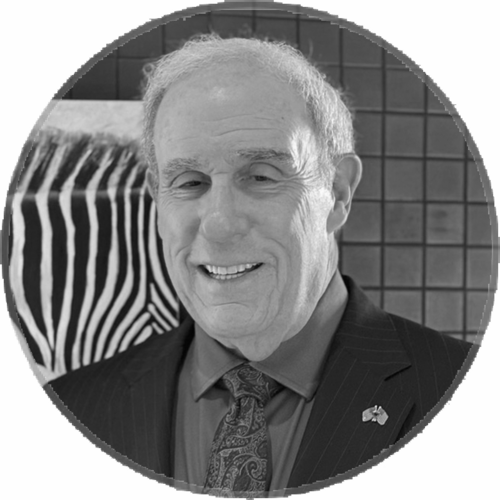
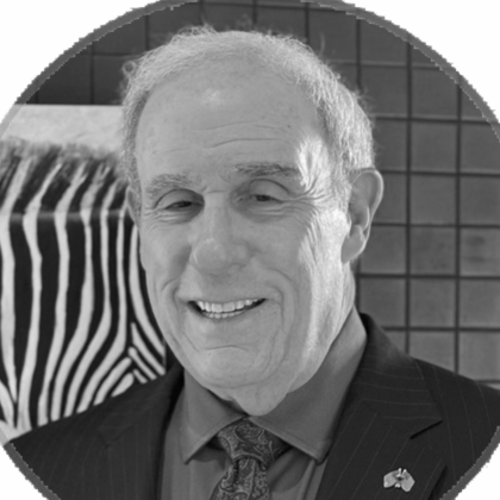
Add full team bios page, refresh team/partner photos, and copy tweaks
Adds team-bios.html (linked from team.html) with expanded bios,
updates several team/partner photos, and adjusts copy and layout
across index, technology, and contact pages.

diff --git a/team-bios.html b/team-bios.html
@@ -1,0 +1,197 @@
+<!DOCTYPE html>
+<html lang="en">
+<head>
+  <meta charset="UTF-8" />
+  <meta name="viewport" content="width=device-width, initial-scale=1.0" />
+  <title>Full Team Bios — RapidBio Systems</title>
+  <meta name="description" content="Full biographies for RapidBio Systems' leadership and inventor team." />
+  <meta name="robots" content="noindex" />
+  <link rel="icon" type="image/png" sizes="64x64" href="assets/favicon-64.png" />
+  <link rel="apple-touch-icon" href="assets/apple-touch-icon.png" />
+  <link rel="stylesheet" href="css/styles.css" />
+</head>
+<body>
+
+  <!-- ===== HEADER ===== -->
+  <header class="site-header">
+    <div class="container nav">
+      <a class="nav__brand" href="index.html" aria-label="RapidBio Systems home">
+        <img src="assets/logo-nav.png" alt="RapidBio Systems" />
+      </a>
+      <nav aria-label="Primary">
+        <ul class="nav__links" id="nav-links">
+          <li><a href="index.html">Home</a></li>
+          <li><a href="technology.html">Technology</a></li>
+          <li><a href="team.html" class="is-active">Team</a></li>
+          <li><a href="contact.html">Contact</a></li>
+          <li><a class="btn btn--primary" href="contact.html">Request the Investor Deck</a></li>
+        </ul>
+      </nav>
+      <div class="nav__cta">
+        <a class="btn btn--primary" href="contact.html">Request the Investor Deck</a>
+        <button class="nav__toggle" aria-label="Open menu" aria-expanded="false" aria-controls="nav-links"><span></span></button>
+      </div>
+    </div>
+  </header>
+
+  <main>
+    <!-- ===== PAGE HERO ===== -->
+    <section class="section section--mint">
+      <div class="container">
+        <div class="section-head narrow">
+          <span class="eyebrow"><a href="team.html">&larr; Team</a></span>
+          <h2 class="mt-0">Full team bios</h2>
+          <p class="lead">Extended backgrounds for RapidBio's leadership, board and inventor team.</p>
+        </div>
+      </div>
+    </section>
+
+    <!-- ===== BIOS ===== -->
+    <section class="section">
+      <div class="container narrow">
+
+        <article class="bio-entry">
+          <div class="bio-entry__head">
+            <div class="member__photo"><img src="assets/team-erickson.png" alt="Portrait of John Erickson" width="500" height="500" /></div>
+            <div>
+              <h2 class="mt-0">John Erickson</h2>
+              <div class="role">President &amp; CEO</div>
+            </div>
+          </div>
+          <div class="bio-entry__body">
+            <p>John is an experienced global healthcare and life sciences executive with CEO and board-level expertise across Fortune 50 corporations, private equity ventures, and start-ups. His broad experiential portfolio, business acumen and global perspective includes strategy development and execution, capital funding, and global commercial deployment utilizing both direct and distribution models. He has led organizational design and cultural change management, and sales force deployment and re-engineering.</p>
+            <p>Additionally, John has expansive Point of Care (POC)/Need testing experience, successful joint venture management, corporate partnerships, product licensing agreements, as well as intellectual property strategy, emerging markets, data management and digital health expertise. John holds degrees in Biology, Chemistry, and a Master of Science in Business Management as well as additional graduate level courses in Biochemistry, Toxicology &amp; Endocrinology. In addition, John is trained in Six Sigma &amp; Lean Thinking, ISO 9001, ISO 13485 and cGMP Compliance.</p>
+            <p>John has also served on several Boards of Directors and as an Advisor to several organizations, including:</p>
+            <ul>
+              <li>Board Member — RNA Disease Diagnostics, Inc., ITC Nexus Dx Holding Company, RapidBio Systems, Inc.</li>
+              <li>Advisor — U of Pennsylvania Wharton Business School / Tel Aviv University Partnership</li>
+              <li>Advisor — Warburg Pincus, California Life Sciences FAST Program</li>
+              <li>Advisor &amp; Consultant — Gerson, Lehrman Group, Braile BioMedica, ISENS, GlucoMe</li>
+              <li>Society Board Member — International Diabetes Federation, The Diabetes Society of Silicon Valley</li>
+            </ul>
+          </div>
+        </article>
+
+        <article class="bio-entry">
+          <div class="bio-entry__head">
+            <div class="member__photo"><img src="assets/team-morrison.png" alt="Portrait of Bob Morrison" width="500" height="500" /></div>
+            <div>
+              <h2 class="mt-0">Bob Morrison</h2>
+              <div class="role">Board &amp; Investor</div>
+            </div>
+          </div>
+          <div class="bio-entry__body">
+            <p>Bob has been involved in all phases of technology business development. He has a graduate degree in Electrical Engineering from Colorado State University and has spent the majority of his career in administrative, marketing, and entrepreneurial roles in the electronics and software industries. He was a co-founder of Sunquest Information Systems, which became the world's largest developer of hospital laboratory information automation products with annual sales in excess of $350 million.</p>
+            <p>Bob was also the Executive Director of the Desert Angels in Tucson, AZ, where he served for 10 years helping to grow its investment portfolio to over $30 million in more than 65 companies. He has taught for many years in the University of Arizona's Eller College of Management's McGuire Center for Entrepreneurship, and has also taught at the University of Maryland's Perdue School of Business on its Salisbury campus. Among Bob's many professional activities are:</p>
+            <ul>
+              <li>Chairman — The Citizen Advisory Board of the University of Arizona's Bio5 Institute</li>
+              <li>Co-Director — University of Arizona's Advanced Technology Transfer Program for the commercialization of life science projects from Mexican government research laboratories</li>
+              <li>Advisor — Life science companies seeking ISO 9000 certification</li>
+              <li>Board Member — IdeaFunding, an organization assisting early-stage entrepreneurs in their search for funding prior to angel investment; RapidBio Systems, Inc.</li>
+            </ul>
+          </div>
+        </article>
+
+        <article class="bio-entry">
+          <div class="bio-entry__head">
+            <div class="member__photo"><img src="assets/team-marmis.png" alt="Portrait of Cary Marmis" width="500" height="500" /></div>
+            <div>
+              <h2 class="mt-0">Cary Marmis</h2>
+              <div class="role">Board &amp; Investor</div>
+            </div>
+          </div>
+          <div class="bio-entry__body">
+            <p>Cary Marmis is a prominent real estate developer, former military pilot, and philanthropist based in Tucson, Arizona. Cary holds a degree in Biology from the University of Illinois and a graduate degree in Physiology from the University of Michigan.</p>
+            <p>Cary's business and philanthropy experience has been broad and successful, alongside an exceptional career in aviation:</p>
+            <ul>
+              <li><b>Real Estate &amp; Development</b> — As the founder and former CEO of Empire West Companies, he spent decades developing commercial and residential properties across the Western U.S., including thousands of apartment units, shopping centers, and custom homes. In Tucson, he is particularly known for building the prominent Campbell Cliffs estate in the Catalina Foothills.</li>
+              <li><b>Military &amp; Volunteer Flying</b> — A former U.S. Air Force fighter pilot, he has continued flying in civilian life, volunteering his time and aircraft for non-profit organizations like Angel Flight West and Veterans Airlift Command to fly patients and veterans for medical treatment.</li>
+              <li><b>Community Leadership &amp; Philanthropy</b> — He has served on numerous local and regional boards, including the Pima Air &amp; Space Museum, DM-50 (supporting Davis-Monthan Air Force Base), the Arizona Theatre Company, and local community and charitable foundations.</li>
+            </ul>
+          </div>
+        </article>
+
+        <article class="bio-entry">
+          <div class="bio-entry__head">
+            <div class="member__photo"><img src="assets/team-yoon.png" alt="Portrait of Professor Yoon" width="500" height="500" /></div>
+            <div>
+              <h2 class="mt-0">Jeong-Yeol Yoon, PhD</h2>
+              <div class="role">Inventor</div>
+            </div>
+          </div>
+          <div class="bio-entry__body">
+            <ul>
+              <li>Professor of Biomedical Engineering</li>
+              <li>Professor of Agricultural &amp; Biosystems Engineering</li>
+              <li>Professor, BIO5 Institute</li>
+              <li>Professor of Animal and Comparative Biomedical Sciences</li>
+              <li>Professor of Chemistry and Biochemistry</li>
+              <li>Member of the Graduate Faculty</li>
+            </ul>
+            <p>Professor Yoon developed the technology for the RapidBio Systems bacterial pathogen detection system.</p>
+            <p>Jeong-Yeol Yoon received his BS, MS and PhD degrees in chemical engineering from Yonsei University, Seoul (South Korea) in 1992, 1994 and 1999, respectively, under the guidance of Woo-Sik Kim, in collaboration with Jung-Hyun Kim, where he worked primarily on polymer colloids. He received his second PhD degree in biomedical engineering from the University of California, Los Angeles in 2004, working on lab-on-a-chip and biomaterials, under the guidance of Robin L. Garrell.</p>
+            <p>He joined the Department of Agricultural &amp; Biosystems Engineering faculty in August 2004 and holds a joint appointment in the School of Animal &amp; Comparative Biomedical Sciences, Department of Biomedical Engineering and BIO5 Institute at The University of Arizona, where he currently directs the Biosensors Lab. Dr. Yoon is a member of IBE, ASABE and SPIE, and was Councilor-at-Large for IBE for the 2010 and 2011 calendar years. He was elected president-elect of IBE in 2014, served as president in 2015, and as immediate past president in 2016. He currently serves as editor-in-chief for the Journal of Biological Engineering (IBE) and as an associate editor and editorial board member for ASABE journals.</p>
+          </div>
+        </article>
+
+        <article class="bio-entry">
+          <div class="bio-entry__head">
+            <div class="member__photo"><img src="assets/team-perchorowicz.png" alt="Portrait of John Perchorowicz" width="500" height="500" /></div>
+            <div>
+              <h2 class="mt-0">John T. Perchorowicz, PhD, RTTP</h2>
+              <div class="role">Technical Consultant &amp; Investor</div>
+            </div>
+          </div>
+          <div class="bio-entry__body">
+            <p>John led the RapidBio Systems Minimum Viable Product prototype instrument development team.</p>
+            <p>As president of Triage Masters LLC, John consulted for major universities on their technology transfer functions, including developing business models that resulted in successful long-term implementation. As the former Vice President of Business Development for Research Corporation Technologies (RCT), he was responsible for identifying early-stage technology emanating from US and Canadian universities for potential development into products in seed-stage companies, or licensing of intellectual property to third-party developers.</p>
+            <p>John was the lead scientific member of the Product Opportunity Committee at Calgene, Inc., serving as the primary liaison between science and business and responsible for scientific review of projects emanating from either the R&amp;D or marketing groups. John was also responsible for communication, goal setting and directing of a scientific collaborative relationship with a corporate contractor in the areas of photosynthetic efficiency, oxidative stress and plant transformation, including supervision of their scientists at Calgene.</p>
+          </div>
+        </article>
+
+        <div class="hero__actions" style="justify-content:center; margin-top:8px">
+          <a class="btn btn--ghost" href="team.html">&larr; Back to Team</a>
+        </div>
+
+      </div>
+    </section>
+  </main>
+
+  <!-- ===== FOOTER ===== -->
+  <footer class="site-footer">
+    <div class="container">
+      <div class="footer__top">
+        <div>
+          <div class="footer__brand">
+            <img src="assets/logo-mark.png" alt="" />
+            <div class="footer__wordmark">RapidBio Systems, Inc.<span>Fast Pathogen Detection Made Easy™</span></div>
+          </div>
+          <p class="footer__tag">Transforming food safety testing one 10-minute test at a time.</p>
+        </div>
+        <div class="footer__col">
+          <h4>Explore</h4>
+          <ul>
+            <li><a href="index.html">Home</a></li>
+            <li><a href="technology.html">Technology</a></li>
+            <li><a href="team.html">Team</a></li>
+            <li><a href="contact.html">Contact</a></li>
+          </ul>
+        </div>
+        <div class="footer__col">
+          <h4>Contact</h4>
+          <ul>
+            <li><a href="mailto:john.erickson@rapidbiosystems.com">john.erickson@rapidbiosystems.com</a></li>
+            <li><a href="contact.html">Request the Investor Deck</a></li>
+          </ul>
+        </div>
+      </div>
+      <div class="footer__bottom">
+        <span>© 2026 RapidBio Systems, Inc. All rights reserved.</span>
+        <span>Patented technology · Exclusive University of Arizona license</span>
+      </div>
+    </div>
+  </footer>
+
+  <script src="js/nav.js"></script>
+</body>
+</html>

diff --git a/css/styles.css b/css/styles.css
@@ -152,6 +152,10 @@ strong { color: var(--ink); font-weight: 650; }
 .hero__grid { display: grid; grid-template-columns: 1.05fr .95fr; gap: 48px; align-items: center; padding-block: clamp(48px, 7vw, 92px) clamp(40px, 6vw, 76px); }
 .hero h1 { margin-bottom: 20px; }
 .hero__sub { font-size: 1.22rem; color: var(--muted); max-width: 40ch; margin-bottom: 30px; }
+.hero__tagline {
+  color: var(--ink); line-height: 1.12; letter-spacing: -.035em; font-weight: 750;
+  font-size: clamp(2.1rem, 4.6vw, 3.6rem); margin: 0 0 26px;
+}
 .hero__actions { display: flex; flex-wrap: wrap; gap: 14px; margin-bottom: 26px; }
 .hero__trust { font-size: .92rem; color: var(--muted); line-height: 1.6; }
 .hero__trust b { color: var(--green-700); white-space: nowrap; }
@@ -201,8 +205,8 @@ strong { color: var(--ink); font-weight: 650; }
 
 /* full-width technology diagram — bleeds past the text container so the
    diagram itself can render larger than a normal content-width figure */
-.diagram-panel { background: #fff; border: 1px solid var(--line); border-radius: var(--r-lg); padding: clamp(16px, 2.6vw, 32px); box-shadow: var(--shadow); overflow-x: auto; margin-inline: calc(-1 * min(3vw, 90px)); }
-.diagram-panel img { display: block; width: 100%; min-width: 560px; max-width: 1320px; margin-inline: auto; }
+.diagram-panel { background: #fff; border: 1px solid var(--line); border-radius: var(--r-lg); padding: clamp(16px, 2.6vw, 32px); box-shadow: var(--shadow); overflow-x: auto; max-width: 839px; margin-inline: auto; }
+.diagram-panel img { display: block; width: 100%; min-width: 320px; max-width: 775px; margin-inline: auto; }
 .diagram-hint { display: none; text-align: center; font-size: .82rem; color: var(--muted); margin: 12px 0 0; }
 
 .claims { list-style: none; margin: 24px 0 0; padding: 0; display: grid; gap: 18px; }
@@ -277,7 +281,9 @@ strong { color: var(--ink); font-weight: 650; }
   padding: 14px; box-shadow: var(--shadow); overflow: hidden;
 }
 .photo-panel img { width: 100%; border-radius: var(--r-sm); }
-.photo-panel--center { max-width: 560px; margin: 36px auto 0; }
+.photo-panel--center img { max-width: 775px; margin-inline: auto; }
+.photo-panel--center { max-width: 803px; margin: 36px auto 0; }
+.panel-label { text-align: center; font-weight: 700; color: var(--ink); font-size: 1.05rem; margin: 40px 0 14px; }
 
 /* ---------- comparison ---------- */
 .compare { display: grid; gap: 12px; margin-top: 8px; }
@@ -296,6 +302,12 @@ strong { color: var(--ink); font-weight: 650; }
 .compare__bar--us { background: linear-gradient(90deg, var(--green), var(--green-600)); box-shadow: 0 2px 8px rgba(34,169,49,.3); }
 .compare__bar--slow { background: #b9c4bc; }
 .compare__bar--slower { background: #cdd5cd; }
+.compare__bar--seg-start { border-radius: var(--pill) 0 0 var(--pill); }
+.compare__bar--seg-end { border-radius: 0 var(--pill) var(--pill) 0; }
+.compare__bar--range {
+  background-color: #dde4de;
+  background-image: repeating-linear-gradient(45deg, #b9c4bc 0, #b9c4bc 5px, transparent 5px, transparent 10px);
+}
 .compare__cap { padding: 0 12px; font-size: .85rem; font-weight: 700; white-space: nowrap; color: var(--green-700); }
 .compare__axis { margin: 14px 0 0; text-align: right; font-size: .8rem; letter-spacing: .04em; color: var(--muted); text-transform: uppercase; }
 .compare__note { margin-top: 22px; padding: 18px 22px; border-left: 4px solid var(--gold); background: var(--paper-2); border-radius: 0 var(--r-sm) var(--r-sm) 0; }
@@ -318,12 +330,22 @@ strong { color: var(--ink); font-weight: 650; }
 .advisory p { margin: 0; color: var(--muted); }
 .advisory p b { color: var(--green-700); font-weight: 700; }
 
+/* ---------- full bios ---------- */
+.bio-entry { padding: 44px 0; border-bottom: 1px solid var(--line); }
+.bio-entry:last-child { border-bottom: none; }
+.bio-entry__head { display: flex; align-items: center; gap: 24px; margin-bottom: 20px; }
+.bio-entry__head .member__photo { margin: 0; flex: none; }
+.bio-entry__body p { color: var(--body); }
+.bio-entry__body ul { margin: 0 0 1rem; padding-left: 1.2em; color: var(--body); }
+.bio-entry__body li { margin-bottom: 6px; }
+
 /* ---------- partners / logos ---------- */
 .partners { margin-top: 8px; }
 .partners__label { text-align: center; font-size: .8rem; letter-spacing: .14em; text-transform: uppercase; color: var(--muted); margin-bottom: 26px; }
 .partners__row { display: flex; flex-wrap: wrap; align-items: center; justify-content: center; gap: clamp(28px, 5vw, 60px); }
 .partners__row img { height: 34px; width: auto; }
-.partners__row img.logo-compact { height: 62px; }
+.partners__row img.logo-compact { height: 80px; }
+.partners__row img.logo-empirewest { height: 64px; }
 
 /* ---------- CTA band ---------- */
 .cta-band { background: linear-gradient(120deg, var(--green-700), var(--green)); color: #fff; border-radius: var(--r-lg); padding: clamp(40px, 6vw, 64px); text-align: center; box-shadow: var(--shadow-lg); position: relative; overflow: hidden; }
@@ -385,7 +407,6 @@ strong { color: var(--ink); font-weight: 650; }
   .hero__media img { max-height: 320px; }
   .nav__brand img { height: 38px; }
   .diagram-hint { display: block; }
-  .diagram-panel { margin-inline: 0; }
   .split { grid-template-columns: 1fr; }
   .split--media-right .split__media { order: -1; }
   .stats { grid-template-columns: 1fr; }

diff --git a/technology.html b/technology.html
@@ -93,7 +93,7 @@
         <div class="section-head" style="max-width:760px">
           <span class="eyebrow">The science</span>
           <h2 class="mt-0">How Mie-scattering detection works</h2>
-          <p class="lead">Antibody-coated microspheres bind to target bacteria in a micro-fluidic cartridge split into control and test channels. A laser passes through the sample and the pattern of scattered light reveals whether pathogens are present — read directly, with no amplification.</p>
+          <p class="lead">Antibody-coated microspheres bind to target bacteria in a micro-fluidic cartridge split into control and test channels. A laser passes through the sample and the pattern of scattered light determines whether pathogens are present — read directly, with no amplification.</p>
         </div>
 
         <div class="diagram-panel">
@@ -101,6 +101,7 @@
         </div>
         <p class="diagram-hint">Swipe to see the full diagram →</p>
 
+        <p class="panel-label">Test Sample Cartridge</p>
         <div class="photo-panel photo-panel--center">
           <img src="assets/cartridge-detail.jpg" alt="Close-up of the RapidBio micro-fluidic test cartridge, with the sample port at the center feeding dyed fluid into the control-side and test-side channels" width="1400" height="401" loading="lazy" />
         </div>
@@ -141,14 +142,17 @@
             <div class="compare__track"><span class="compare__bar compare__bar--us" style="width:8%"></span><span class="compare__cap">~10 min</span></div>
           </div>
           <div class="compare__row">
+            <div class="compare__thumb"><img src="assets/m-pcr.jpg" alt="Technician operating a benchtop PCR analyzer in a lab" width="160" height="160" loading="lazy" /></div>
+            <div class="compare__label">PCR / rtPCR<small>Hours + amplification</small></div>
+            <div class="compare__track">
+              <span class="compare__bar compare__bar--slow compare__bar--seg-start" style="width:32%"></span>
+              <span class="compare__bar compare__bar--range compare__bar--seg-end" style="width:16%"></span>
+            </div>
+          </div>
+          <div class="compare__row">
             <div class="compare__thumb"><img src="assets/m-lfa.jpg" alt="Lateral-flow antibody test strip" width="160" height="160" loading="lazy" /></div>
             <div class="compare__label">Lateral flow<small>Hours + amplification</small></div>
             <div class="compare__track"><span class="compare__bar compare__bar--slow" style="width:40%"></span></div>
-          </div>
-          <div class="compare__row">
-            <div class="compare__thumb"><img src="assets/m-pcr.jpg" alt="Technician operating a benchtop PCR analyzer in a lab" width="160" height="160" loading="lazy" /></div>
-            <div class="compare__label">PCR / rtPCR<small>Hours + amplification</small></div>
-            <div class="compare__track"><span class="compare__bar compare__bar--slow" style="width:45%"></span></div>
           </div>
           <div class="compare__row">
             <div class="compare__thumb compare__thumb--icon" aria-hidden="true">

diff --git a/team.html b/team.html
@@ -81,6 +81,10 @@
           </div>
         </div>
 
+        <div class="hero__actions" style="justify-content:center; margin-top:8px">
+          <a class="btn btn--ghost" href="team-bios.html">See full bios <span class="arrow" aria-hidden="true">→</span></a>
+        </div>
+
         <div class="advisory">
           <h3>Advisory team</h3>
           <p><b>Greg Smith, MS</b> — Senior EE · <b>Tim Reckart, JD</b> — Corporate Attorney · <b>Quan Nguyen, PhD, JD</b> — Intellectual Property</p>
@@ -95,11 +99,11 @@
           <p class="partners__label">Experience &amp; affiliations across the team</p>
           <div class="partners__row">
             <img src="assets/partner-jnj.png" alt="Johnson &amp; Johnson" />
+            <img src="assets/partner-abbott.png" alt="Abbott" />
             <img src="assets/partner-biorad.png" alt="Bio-Rad" />
             <img src="assets/partner-uarizona.png" alt="The University of Arizona" />
-            <img src="assets/partner-abbott.png" alt="Abbott" />
             <img src="assets/partner-sunquest.png" alt="Sunquest" />
-            <img src="assets/partner-empirewest.png" alt="Empire West Companies" />
+            <img class="logo-empirewest" src="assets/partner-empirewest.png" alt="Empire West Companies" />
             <img class="logo-compact" src="assets/partner-calgene.png" alt="Calgene" />
             <img class="logo-compact" src="assets/partner-triagemasters.png" alt="Triage Masters" />
           </div>
@@ -116,14 +120,14 @@
               <svg width="24" height="24" viewBox="0 0 24 24" fill="none" stroke="currentColor" stroke-width="2" stroke-linecap="round" stroke-linejoin="round"><path d="M12 2l7 3v6c0 4.5-3 8-7 11-4-3-7-6.5-7-11V5z"/><path d="M9 12l2 2 4-4"/></svg>
             </div>
             <h3>Protected &amp; validated</h3>
-            <p>Two issued US patents and an exclusive license from the University of Arizona. Proof of principle and proof of technology complete with E.&nbsp;coli detection—demonstrated at 10&nbsp;CFU/mL.</p>
+            <p>Two issued US patents and an exclusive license from the University of Arizona. Proof of principle and proof of technology complete with E.&nbsp;coli detection—demonstrated at &lt;10&nbsp;CFU/mL.</p>
           </div>
           <div class="card">
             <div class="icon-badge" aria-hidden="true">
               <svg width="24" height="24" viewBox="0 0 24 24" fill="none" stroke="currentColor" stroke-width="2" stroke-linecap="round" stroke-linejoin="round"><path d="M20 7h-9M14 17H5"/><circle cx="7" cy="7" r="3"/><circle cx="17" cy="17" r="3"/></svg>
             </div>
             <h3>Backed &amp; recognized</h3>
-            <p>Prior investment from DesertTech, Board of Directors, the University of Arizona and the Kauffman Foundation, with media coverage in the Wall Street Journal, Fast Company and FoodBytes.</p>
+            <p>Prior investment from DesertTech, RBS Board of Directors, the University of Arizona and the Kauffman Foundation, with media coverage in the Wall Street Journal, Fast Company, FoodBytes, and Public TV.</p>
           </div>
         </div>
 

diff --git a/index.html b/index.html
@@ -39,8 +39,9 @@
       <div class="container hero__grid">
         <div class="hero__copy">
           <span class="eyebrow">Fast Pathogen Detection Made Easy™</span>
-          <h1>~10-minute bacterial pathogen detection for food safety fast screening testing</h1>
+          <h1>10-minute bacterial pathogen detection for food safety</h1>
           <p class="hero__sub">A portable, handheld system that delivers PCR-like accuracy in about ten minutes — no lab, no amplification step, no specialized technician.</p>
+          <p class="hero__tagline">Fast Screening Testing</p>
           <div class="hero__actions">
             <a class="btn btn--primary btn--lg" href="contact.html">Request the Investor Deck <span class="arrow" aria-hidden="true">→</span></a>
             <a class="btn btn--ghost btn--lg" href="technology.html">See the technology</a>
@@ -102,7 +103,7 @@
             <span class="spec-bar__icon" aria-hidden="true">
               <svg width="22" height="22" viewBox="0 0 24 24" fill="none" stroke="currentColor" stroke-width="2.2" stroke-linecap="round" stroke-linejoin="round"><circle cx="12" cy="12" r="9"/><path d="M12 7v5l3 2"/></svg>
             </span>
-            <span><b>~10 minutes to result</b><span class="d"><strong>Fast screening</strong> in minutes, not hours or days.</span></span>
+            <span><b>10 minutes to result</b><span class="d"><strong>Fast screening</strong> in minutes, not hours or days.</span></span>
           </div>
           <div class="spec-bar__item">
             <span class="spec-bar__icon" aria-hidden="true">

diff --git a/contact.html b/contact.html
@@ -39,7 +39,7 @@
         <div class="section-head narrow">
           <span class="eyebrow">Contact</span>
           <h2 class="mt-0">Request the deck or start a conversation</h2>
-          <p class="lead">Tell us a little about your interest and we'll follow up with the investor deck or technology market overview and next steps.</p>
+          <p class="lead">Tell us a little about your interest and we'll follow up with the investor deck or technology market overview and our next steps.</p>
         </div>
       </div>
     </section>
@@ -96,7 +96,7 @@
             </ul>
             <div class="card" style="margin-top:30px">
               <h3 style="margin-bottom:6px">What you'll receive</h3>
-              <p>The current investor deck covering the technology, market, validation, IP and roadmap for the Seed round.</p>
+              <p>The current investor deck covering the technology, market, validation, IP, and roadmap for the Seed round.</p>
             </div>
           </aside>
         </div>
